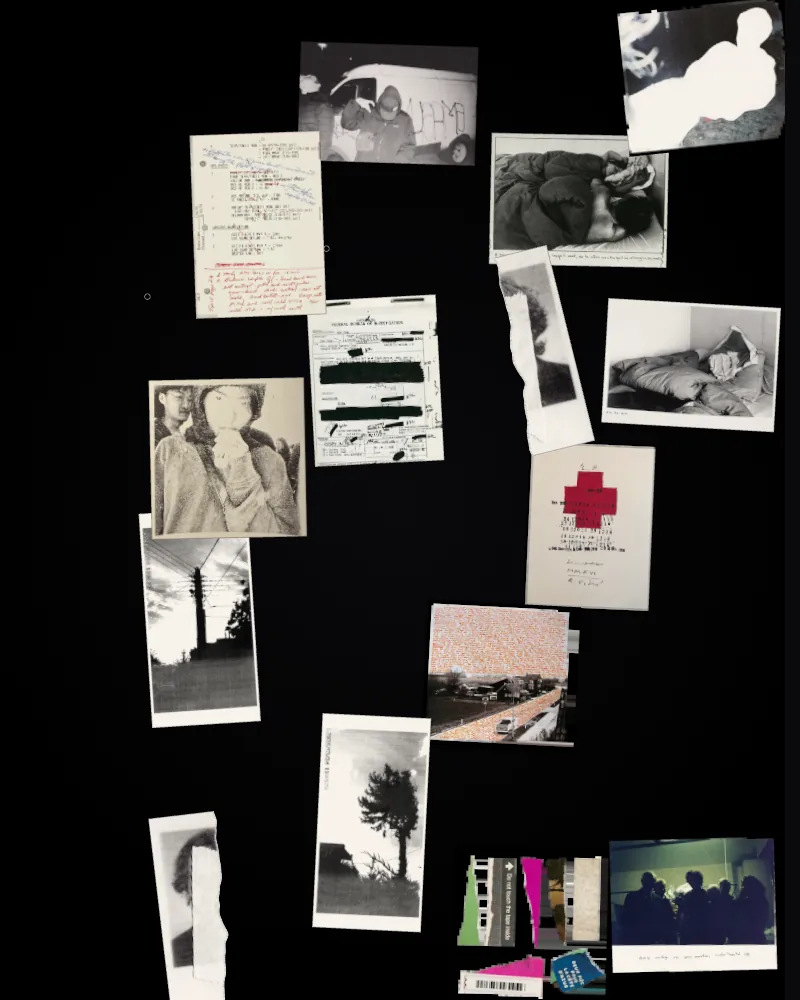
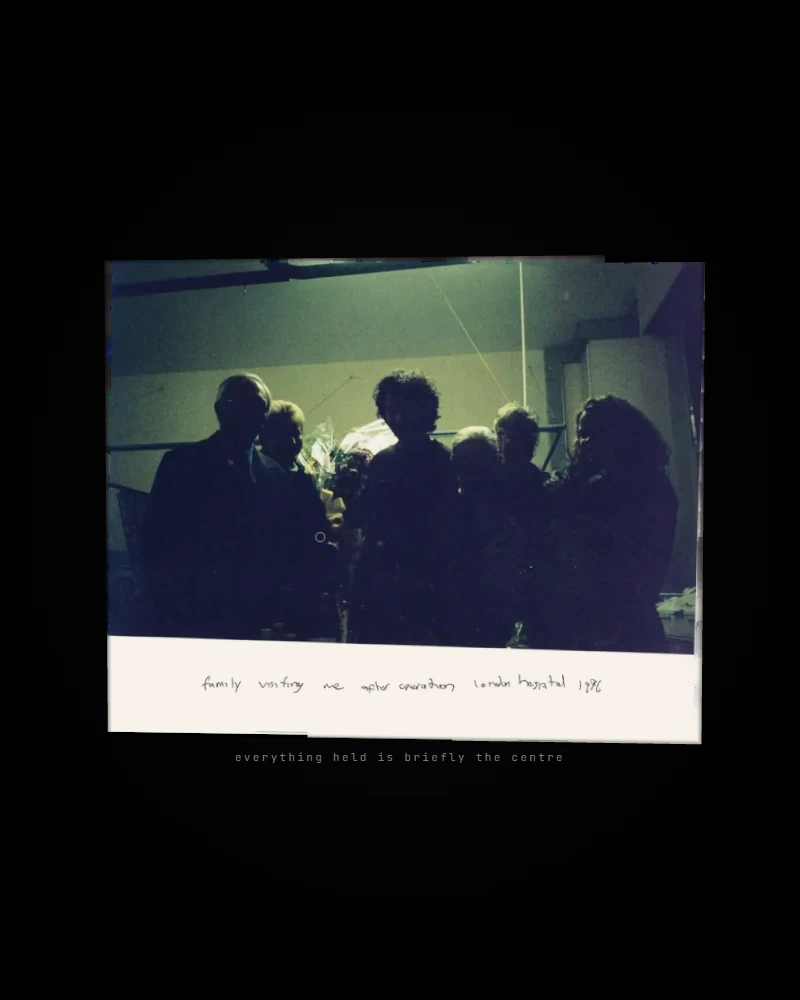
chore(release): round 2 — cards, covers, docs
The three revised pieces now say on the index what they actually do:
Camera Oscura develops by itself, Mani opens a print when you close your
hand on it, Parete lets you walk round the back and take the tour. Meta
lines keep their shape.

Both re-shot covers come from the demos themselves. Parete's had the old
room with the figure and the wall a smudge — the preset frames at 13 m in
a 4:5 crop — so it is the oblique's angle at 9 m, whole wall, riser and
the amber pool. Mani's was the drift; it is now the round-2 climax: one
print opened, its caption under it, the reticle on it. Camera Oscura
keeps its print, which still reads best at 220 px.

README names the route the demos actually live at; DECISIONS gains a
round-2 entry per demo for the decisions the briefs did not make — the
dissolve and the bare tray, the fist and focus mode, the endless ground,
the back and the tour — plus the /graphic-designs move and its 308.

Claude-Session: https://claude.ai/code/session_015chk7WcVFeFXQ7rp4GEYrs

diff --git a/src/lib/dictionary.ts b/src/lib/dictionary.ts
@@ -389,17 +389,17 @@ const en: Dictionary = {
       darkroom: {
         title: "Camera Oscura — Darkroom",
         meta: "interactive · fluid + shader · 2026",
-        desc: "A developing tray in the dark. Stir the liquid with your pointer and the prints surface where it has passed — a GPU fluid simulation developing photographs, live in your browser.",
+        desc: "A developing tray in the dark. Stir the liquid with your pointer and the prints surface where it has passed — or leave it alone and it develops by itself, each print sinking into the next.",
       },
       hands: {
         title: "Mani — Hands",
         meta: "interactive · hand tracking · 2026",
-        desc: "Your hands, read by the webcam. Pinch a print out of the drift, carry it, tear it in two with both hands — nothing leaves your browser.",
+        desc: "Your hands, read by the webcam. Pinch a print out of the drift, tear it in two with both hands, close your hand on one and it opens at the centre — nothing leaves your browser.",
       },
       wall: {
         title: "Parete — LED Wall",
         meta: "3d preview · led wall · 2026",
-        desc: "A 6 × 3 m LED wall in a dark room, running the generative loops live. Walk around it, switch loops, get close enough to see the pixel pitch.",
+        desc: "A 6 × 3 m LED wall in a dark room, running the generative loops live. Walk round the back to the cabinets and the cabling, switch palettes, or take the tour that shows what a LED wall is made of.",
       },
     },
   },
@@ -601,17 +601,17 @@ const it: Dictionary = {
       darkroom: {
         title: "Camera Oscura — Darkroom",
         meta: "interattivo · fluido + shader · 2026",
-        desc: "Una bacinella di sviluppo al buio. Muovi il liquido con il puntatore e le stampe affiorano dove è passato — una simulazione di fluido su GPU che sviluppa fotografie, dal vivo nel tuo browser.",
+        desc: "Una bacinella di sviluppo al buio. Muovi il liquido con il puntatore e le stampe affiorano dove è passato — oppure lascia fare: si sviluppa da sé, e ogni stampa affonda nella successiva.",
       },
       hands: {
         title: "Mani — Hands",
         meta: "interattivo · tracciamento mani · 2026",
-        desc: "Le tue mani, lette dalla webcam. Pizzica una stampa dalla deriva, portala con te, strappala in due con entrambe le mani — niente esce dal tuo browser.",
+        desc: "Le tue mani, lette dalla webcam. Pizzica una stampa dalla deriva, strappala in due con entrambe le mani, chiudi la mano su una e si apre al centro — niente esce dal tuo browser.",
       },
       wall: {
         title: "Parete — LED Wall",
         meta: "anteprima 3d · led wall · 2026",
-        desc: "Un led wall di 6 × 3 m in una stanza buia, con i loop generativi che girano dal vivo. Giraci intorno, cambia loop, avvicinati fino a vedere il pixel pitch.",
+        desc: "Un led wall di 6 × 3 m in una stanza buia, con i loop generativi che girano dal vivo. Passa dietro, tra i cabinet e i cavi, cambia palette, o segui il tour che racconta com’è fatto un led wall.",
       },
     },
   },

diff --git a/DECISIONS.md b/DECISIONS.md
@@ -438,8 +438,9 @@ Considered and left as designed (so the next pass doesn't re-open them):
 ## Merge — three new demos (2026-09-07)
 
 `/graphic-designs` now holds five pieces: Image Vortex and Tarassaco as they
-were, plus **Camera Oscura** (`/xperiments/darkroom`), **Mani**
-(`/xperiments/hands`) and **Parete** (`/xperiments/wall`). They were built in
+were, plus **Camera Oscura** (`/graphic-designs/darkroom`), **Mani**
+(`/graphic-designs/hands`) and **Parete** (`/graphic-designs/wall`) — all three
+at `/xperiments/<id>` until round 2 moved them. They were built in
 parallel by three sessions against briefs in `reference/briefs/`, each owning
 only its own route folder and `public/<id>/`; every shared file was the
 director's. Per-demo build reports (what was built, every tunable, the known
@@ -489,8 +490,10 @@ Conventions that came out of the three at once:
 ## Payload (measured on the production build, 2026-09-07)
 
 Per route, cold: `/` 433 KB JS · LCP 392 ms; `/graphic-designs` 436 KB ·
-196 ms; `/about` 439 KB · 124 ms; `/xperiments/darkroom` 440 KB;
-`/xperiments/hands` 486 KB; `/xperiments/wall` 632 KB. The three demo chunks
+196 ms; `/about` 439 KB · 124 ms; `/graphic-designs/darkroom` 440 KB;
+`/graphic-designs/hands` 486 KB; `/graphic-designs/wall` 632 KB (measured
+under their old `/xperiments/<id>` paths; the move renamed the route, not the
+chunk). The three demo chunks
 are per-route — three/R3F stays shared, the reflector, composer and MediaPipe
 do not leak into the site bundle. Fonts are 195–229 KB on every route (Fraunces
 roman + italic, JetBrains Mono, all variable) and are the largest fixed cost;
@@ -502,6 +505,81 @@ they are left alone deliberately, since the display serif *is* the site.
 - **`public/darkroom|hands|wall` are `immutable`**, like `/vortex/images` and
   `/mediapipe`: content-addressed by filename, so they should not be
   revalidated on every visit to the index.
+
+## Merge — round 2 (2026-09-11)
+
+Alberto walked the five pieces and asked for a second pass on three of them.
+Six briefs in `reference/briefs/round2/`, one session each, each owning one
+folder; the per-demo reports carry a **Round 2** section with every tunable and
+every known limit. What follows is only what the briefs did not already decide.
+
+**The demos moved to `/graphic-designs/<id>`.** They opened under
+`/xperiments/<id>`, which filed them beside the generative rows they are not.
+`next.config.ts` answers the old paths with a 308 for the five ids explicitly,
+so `/xperiments` itself still serves the rows and a future `/xperiments/*` page
+is untouched. Canonicals, the sitemap and the camera `Permissions-Policy`
+headers moved with them.
+
+- **Camera Oscura — a print hands over to the next one, and nothing is
+  written over the tray.** A fixed print no longer drains to black: the next is
+  bound into the tray at once and the finished one sinks over it for 1.2 s
+  (0.8 s on ← / →), deeper under the liquid, which keeps its velocity and
+  pressure fields — a handover is not a still tray. The outgoing print is held
+  in its own target and blended on one `u_drain` uniform, so outside a handover
+  the branch costs nothing. Fresh paper wets in over 3 s: without that ramp the
+  incoming print flared up in the previous stir's leftover swirls and read as
+  smoke on black — the fluid-demo look the piece exists to avoid. The two HUD
+  corners are gone; the title and the hint show on the first idle state only,
+  and after that the exit link is the only writing on the page. Left alone the
+  tray now develops by itself in about half a minute — the brief's faster
+  numbers read as a fast-forward. A parked mouse no longer counts as input: the
+  OS emits sub-pixel jitter, which reset the idle clock forever, so a move
+  under 2 px is dropped.
+- **Mani — closing your hand opens a print.** The tracker gained a fist (four
+  consecutive closed detections to enter, six open ones to leave), and because
+  a pinch enters at frame 2 and a fist at frame 4, closing the hand *on* a
+  print reads as pinch → hold → fist → open. While a fist holds, the pinch
+  machine is frozen and the push test is off: a fist must never scatter the
+  prints, and a pinch must never open one. The opened print flies to the centre
+  at 62 % of the viewport height, perspective-corrected at its own z; the other
+  thirteen drift out and fade but are never disposed, so a close puts them back
+  exactly where they were. A 450 ms arm window after the open swallows a
+  double-click's second press. Closing is a sweep of the open palm (at 0.75 ×
+  the push speed, no cooldown), a flick, a double-click, or Escape / Backspace
+  / P — and the same sweep raises no wave outside focus mode. Hover (lift,
+  a touch of scale, up to 5° of tilt toward the fingertip) is the piece's
+  answer to "which print am I about to take"; touch gets none. The legend
+  became an onboarding card that leaves at the first gesture that lands, and an
+  opened print carries a caption from fourteen one-liners in the Vortex voice —
+  English in both locales, like the prints themselves.
+- **Parete — an endless ground, a back, and a tour.** The figure is gone;
+  scale now comes from the riser, the cabinets and the pool of light. The
+  backdrop cylinder went with it: a 400 m floor under a linear fog to black
+  from 10 to 40 m has no edge to find at any distance, and drei's reflector
+  keeps `<fog_fragment>`, so the mirrored floor fades with it. The back is
+  modelled from the same `LED_CABINETS` table as the face — cabinet bodies,
+  lips, a lead drooping between every pair of connectors, a loom per row, the
+  ground support, a processor with its pilot — in six draw calls, laid out from
+  the front's own numbers so the two can never disagree. It is lit at 60 % of
+  the front, not the 10 % the brief asked: a near-black albedo under a dim
+  light is simply black, and the first capture showed nothing but the pilot.
+  The loop arrows became a row of lamps in the palette's own colours, and a
+  switch is a wipe across the cabinets — two render targets trade places rather
+  than blitting, the colour behind the front settles in 0.4 s so the edge
+  carries the change, and the lights follow what the wall shows rather than the
+  live palette. The guided tour (`what is a led wall?`, six stations) is DOM
+  over the rig's own tween; its card waits for the rig to report the landing
+  instead of a timer, so the words always follow the room. Taking a view or a
+  walk key closes the tour; looking around inside a station does not.
+- **The index tells the new story.** `gd.demos.{darkroom,hands,wall}` now lead
+  with what round 2 added — it develops by itself, close your hand on a print,
+  walk round the back and take the tour — and the two covers were re-shot from
+  the demos themselves: Parete at an oblique from the right with the whole wall,
+  the riser and the amber pool in frame (the preset's own 13 m framing leaves
+  the wall a smudge in a 4:5 crop, so the frame is the preset's angle at 9 m),
+  Mani with one print opened, its caption under it and the reticle on it. Camera
+  Oscura keeps its print: nothing the fluid does reads better at 220 px than the
+  photograph it develops.
 
 ## Deferred
 

diff --git a/README.md b/README.md
@@ -35,8 +35,9 @@ src/
                   field-state (Aura's published frame)
     providers/    AppProvider (entered / reduced-motion / fieldReady), SmoothScroll
   app/(immersive)/graphic-designs/
-                  the five Merge demos — vortex, tarassaco, darkroom (Camera
-                  Oscura), hands (Mani), wall (Parete). One folder each:
+                  the five Merge demos, each at /graphic-designs/<id> — vortex,
+                  tarassaco, darkroom (Camera Oscura), hands (Mani), wall
+                  (Parete); /xperiments/<id> 308s to them. One folder each:
                   page → client (ssr:false) → App + components/, hooks/,
                   <id>.config.ts (every tunable), <id>.css (scoped). Briefs and
                   build reports in reference/briefs/
